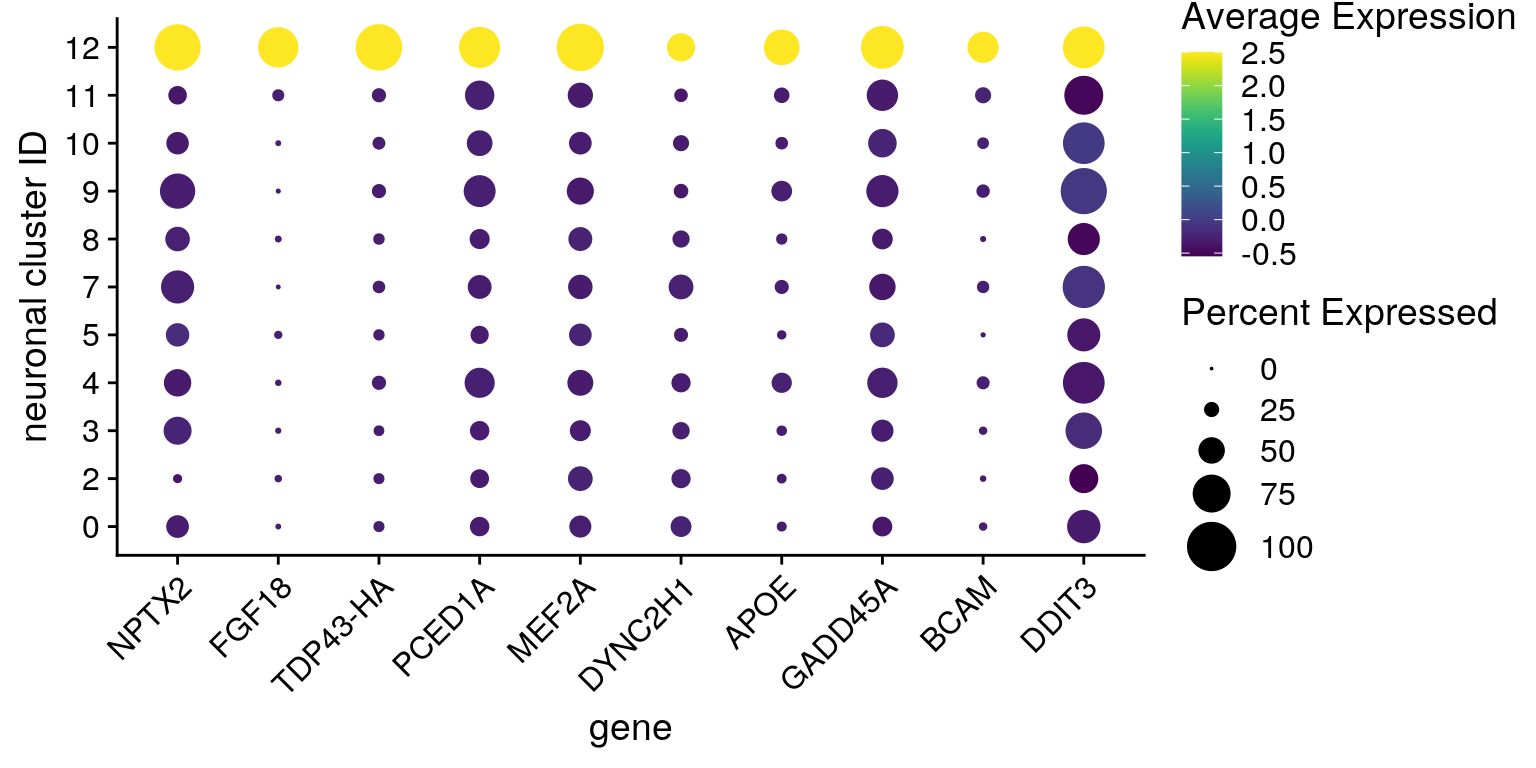
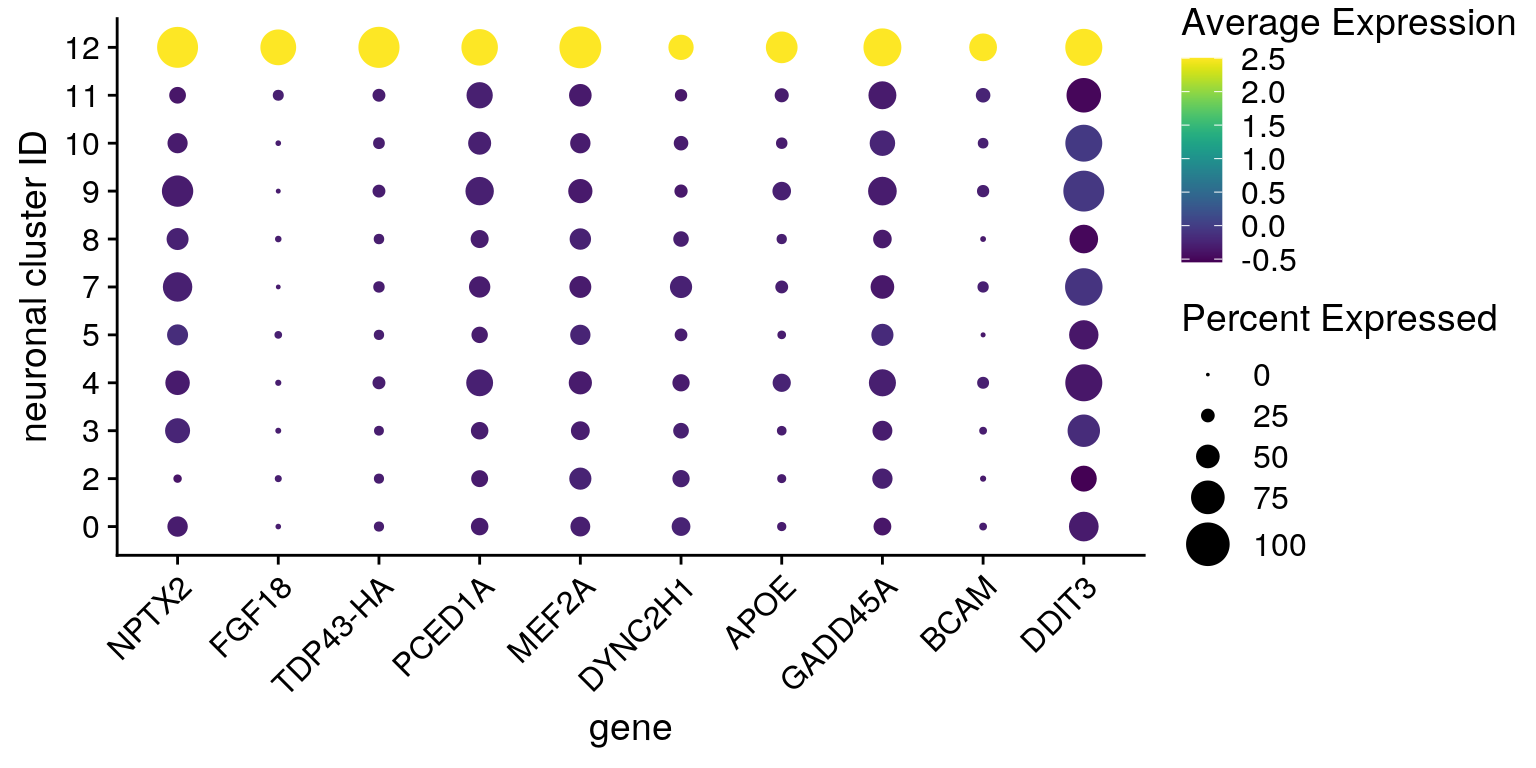
Build site.

diff --git a/docs/TDP-07-cluster_12.html b/docs/TDP-07-cluster_12.html
@@ -413,7 +413,7 @@ div.tocify {
 <div class="tab-content">
 <div id="summary" class="tab-pane fade in active">
 <p>
-<strong>Last updated:</strong> 2021-05-25
+<strong>Last updated:</strong> 2021-05-26
 </p>
 <p>
 <strong>Checks:</strong> <span class="glyphicon glyphicon-ok text-success" aria-hidden="true"></span> 7 <span class="glyphicon glyphicon-exclamation-sign text-danger" aria-hidden="true"></span> 0
@@ -504,16 +504,16 @@ This reproducible <a href="http://rmarkdown.rstudio.com">R Markdown</a> analysis
 <div class="panel panel-default">
 <div class="panel-heading">
 <p class="panel-title">
-<a data-toggle="collapse" data-parent="#workflowr-checks" href="#strongRepositoryversionstrongahrefhttpsgithubcomkhembachneuralscRNAseqtree10927250339f7d4d5d5ceda139178f1e43c518c7targetblank1092725a"> <span class="glyphicon glyphicon-ok text-success" aria-hidden="true"></span> <strong>Repository version:</strong> <a href="https://github.com/khembach/neural_scRNAseq/tree/10927250339f7d4d5d5ceda139178f1e43c518c7" target="_blank">1092725</a> </a>
+<a data-toggle="collapse" data-parent="#workflowr-checks" href="#strongRepositoryversionstrongahrefhttpsgithubcomkhembachneuralscRNAseqtree7ae942391a922ed9412260d4833d7c2fe349f205targetblank7ae9423a"> <span class="glyphicon glyphicon-ok text-success" aria-hidden="true"></span> <strong>Repository version:</strong> <a href="https://github.com/khembach/neural_scRNAseq/tree/7ae942391a922ed9412260d4833d7c2fe349f205" target="_blank">7ae9423</a> </a>
 </p>
 </div>
[2 lines of base64/hex data omitted]
 <div class="panel-body">
 <p>
 Great! You are using Git for version control. Tracking code development and connecting the code version to the results is critical for reproducibility.
 </p>
 <p>
-The results in this page were generated with repository version <a href="https://github.com/khembach/neural_scRNAseq/tree/10927250339f7d4d5d5ceda139178f1e43c518c7" target="_blank">1092725</a>. See the <em>Past versions</em> tab to see a history of the changes made to the R Markdown and HTML files.
+The results in this page were generated with repository version <a href="https://github.com/khembach/neural_scRNAseq/tree/7ae942391a922ed9412260d4833d7c2fe349f205" target="_blank">7ae9423</a>. See the <em>Past versions</em> tab to see a history of the changes made to the R Markdown and HTML files.
 </p>
 <p>
 Note that you need to be careful to ensure that all relevant files for the analysis have been committed to Git prior to generating the results (you can use <code>wflow_publish</code> or <code>wflow_git_commit</code>). workflowr only checks the R Markdown file, but you know if there are other scripts or data files that it depends on. Below is the status of the Git repository when the results were generated:
@@ -879,6 +879,40 @@ Message
 Rmd
 </td>
 <td>
+<a href="https://github.com/khembach/neural_scRNAseq/blob/7ae942391a922ed9412260d4833d7c2fe349f205/analysis/TDP-07-cluster_12.Rmd" target="_blank">7ae9423</a>
+</td>
+<td>
+khembach
+</td>
+<td>
+2021-05-26
+</td>
+<td>
+change size of dots in dot plot
+</td>
+</tr>
+<tr>
+<td>
+html
+</td>
+<td>
+<a href="https://rawcdn.githack.com/khembach/neural_scRNAseq/35b48c48157a97b750d811e6ee1d45bb50714b8c/docs/TDP-07-cluster_12.html" target="_blank">35b48c4</a>
+</td>
+<td>
+khembach
+</td>
+<td>
+2021-05-25
+</td>
+<td>
+Build site.
+</td>
+</tr>
+<tr>
+<td>
+Rmd
+</td>
+<td>
 <a href="https://github.com/khembach/neural_scRNAseq/blob/10927250339f7d4d5d5ceda139178f1e43c518c7/analysis/TDP-07-cluster_12.Rmd" target="_blank">1092725</a>
 </td>
 <td>
@@ -1173,6 +1207,17 @@ Date
 <tbody>
 <tr>
 <td>
+<a href="https://github.com/khembach/neural_scRNAseq/blob/35b48c48157a97b750d811e6ee1d45bb50714b8c/docs/figure/TDP-07-cluster_12.Rmd/scran-markers-heatmap-any-1.png" target="_blank">35b48c4</a>
+</td>
+<td>
+khembach
+</td>
+<td>
+2021-05-25
+</td>
+</tr>
+<tr>
+<td>
 <a href="https://github.com/khembach/neural_scRNAseq/blob/1790d32caf3b95a22107c7d7a34f5feadb743ba9/docs/figure/TDP-07-cluster_12.Rmd/scran-markers-heatmap-any-1.png" target="_blank">1790d32</a>
 </td>
 <td>
@@ -1223,6 +1268,17 @@ Date
 <tbody>
 <tr>
 <td>
+<a href="https://github.com/khembach/neural_scRNAseq/blob/35b48c48157a97b750d811e6ee1d45bb50714b8c/docs/figure/TDP-07-cluster_12.Rmd/scran-markers-heatmap-any-2.png" target="_blank">35b48c4</a>
+</td>
+<td>
+khembach
+</td>
+<td>
+2021-05-25
+</td>
+</tr>
+<tr>
+<td>
 <a href="https://github.com/khembach/neural_scRNAseq/blob/390fedee342dc10cd322203fefb3612cc22c2ed6/docs/figure/TDP-07-cluster_12.Rmd/scran-markers-heatmap-any-2.png" target="_blank">390fede</a>
 </td>
 <td>
@@ -1260,6 +1316,17 @@ Date
 </tr>
 </thead>
 <tbody>
+<tr>
+<td>
+<a href="https://github.com/khembach/neural_scRNAseq/blob/35b48c48157a97b750d811e6ee1d45bb50714b8c/docs/figure/TDP-07-cluster_12.Rmd/scran-markers-heatmap-any-3.png" target="_blank">35b48c4</a>
+</td>
+<td>
+khembach
+</td>
+<td>
+2021-05-25
+</td>
+</tr>
 <tr>
 <td>
 <a href="https://github.com/khembach/neural_scRNAseq/blob/1790d32caf3b95a22107c7d7a34f5feadb743ba9/docs/figure/TDP-07-cluster_12.Rmd/scran-markers-heatmap-any-3.png" target="_blank">1790d32</a>
@@ -1312,6 +1379,17 @@ Date
 <tbody>
 <tr>
 <td>
+<a href="https://github.com/khembach/neural_scRNAseq/blob/35b48c48157a97b750d811e6ee1d45bb50714b8c/docs/figure/TDP-07-cluster_12.Rmd/scran-markers-heatmap-all-1.png" target="_blank">35b48c4</a>
+</td>
+<td>
+khembach
+</td>
+<td>
+2021-05-25
+</td>
+</tr>
+<tr>
+<td>
 <a href="https://github.com/khembach/neural_scRNAseq/blob/1790d32caf3b95a22107c7d7a34f5feadb743ba9/docs/figure/TDP-07-cluster_12.Rmd/scran-markers-heatmap-all-1.png" target="_blank">1790d32</a>
 </td>
 <td>
@@ -1362,6 +1440,17 @@ Date
 <tbody>
 <tr>
 <td>
+<a href="https://github.com/khembach/neural_scRNAseq/blob/35b48c48157a97b750d811e6ee1d45bb50714b8c/docs/figure/TDP-07-cluster_12.Rmd/scran-markers-heatmap-all-2.png" target="_blank">35b48c4</a>
+</td>
+<td>
+khembach
+</td>
+<td>
+2021-05-25
+</td>
+</tr>
+<tr>
+<td>
 <a href="https://github.com/khembach/neural_scRNAseq/blob/390fedee342dc10cd322203fefb3612cc22c2ed6/docs/figure/TDP-07-cluster_12.Rmd/scran-markers-heatmap-all-2.png" target="_blank">390fede</a>
 </td>
 <td>
@@ -1401,6 +1490,17 @@ Date
 <tbody>
 <tr>
 <td>
+<a href="https://github.com/khembach/neural_scRNAseq/blob/35b48c48157a97b750d811e6ee1d45bb50714b8c/docs/figure/TDP-07-cluster_12.Rmd/scran-markers-heatmap-all-3.png" target="_blank">35b48c4</a>
+</td>
+<td>
+khembach
+</td>
+<td>
+2021-05-25
+</td>
+</tr>
+<tr>
+<td>
 <a href="https://github.com/khembach/neural_scRNAseq/blob/1790d32caf3b95a22107c7d7a34f5feadb743ba9/docs/figure/TDP-07-cluster_12.Rmd/scran-markers-heatmap-all-3.png" target="_blank">1790d32</a>
 </td>
 <td>
@@ -1435,18 +1535,92 @@ khembach
 
 features &lt;- all_up[[&quot;12&quot;]][1:10,] %&gt;% rownames
 DotPlot(so, assay = &quot;RNA&quot;, features = features, idents = neuronal_clusters, 
-        scale = TRUE, scale.min = 0, scale.max = 100, dot.scale = 8) + 
+        scale = TRUE, scale.min = 0, scale.max = 100, dot.scale = 7) + 
   RotatedAxis() + scale_color_viridis() + 
   theme(axis.text.x = element_text(angle=45)) + ylab(&quot;neuronal cluster ID&quot;) + 
   scale_x_discrete(name = &quot;gene&quot;, breaks = features, labels=fs[[&quot;up&quot;]])</code></pre>
 <p><img src="figure/TDP-07-cluster_12.Rmd/dot-plot-1.png" width="768" style="display: block; margin: auto;" /></p>
+<p>
+<button type="button" class="btn btn-default btn-xs btn-workflowr btn-workflowr-fig" data-toggle="collapse" data-target="#fig-dot-plot-1">
+Past versions of dot-plot-1.png
+</button>
+</p>
+<div id="fig-dot-plot-1" class="collapse">
+<div class="table-responsive">
+<table class="table table-condensed table-hover">
+<thead>
+<tr>
+<th>
+Version
+</th>
+<th>
+Author
+</th>
+<th>
+Date
+</th>
+</tr>
+</thead>
+<tbody>
+<tr>
+<td>
+<a href="https://github.com/khembach/neural_scRNAseq/blob/35b48c48157a97b750d811e6ee1d45bb50714b8c/docs/figure/TDP-07-cluster_12.Rmd/dot-plot-1.png" target="_blank">35b48c4</a>
+</td>
+<td>
+khembach
+</td>
+<td>
+2021-05-25
+</td>
+</tr>
+</tbody>
+</table>
+</div>
+</div>
 <pre class="r"><code>features &lt;- all_down[[&quot;12&quot;]][1:10,] %&gt;% rownames
 DotPlot(so, assay = &quot;RNA&quot;, features = features, idents = neuronal_clusters, 
-        scale = TRUE, scale.min = 0, scale.max = 100, dot.scale = 8) + 
+        scale = TRUE, scale.min = 0, scale.max = 100, dot.scale = 7) + 
   RotatedAxis() + scale_color_viridis() + 
   theme(axis.text.x = element_text(angle=45)) + ylab(&quot;neuronal cluster ID&quot;) + 
   scale_x_discrete(name = &quot;gene&quot;,  breaks = features, labels=fs[[&quot;down&quot;]])</code></pre>
 <p><img src="figure/TDP-07-cluster_12.Rmd/dot-plot-2.png" width="768" style="display: block; margin: auto;" /></p>
+<p>
+<button type="button" class="btn btn-default btn-xs btn-workflowr btn-workflowr-fig" data-toggle="collapse" data-target="#fig-dot-plot-2">
+Past versions of dot-plot-2.png
+</button>
+</p>
+<div id="fig-dot-plot-2" class="collapse">
+<div class="table-responsive">
+<table class="table table-condensed table-hover">
+<thead>
+<tr>
+<th>
+Version
+</th>
+<th>
+Author
+</th>
+<th>
+Date
+</th>
+</tr>
+</thead>
+<tbody>
+<tr>
+<td>
+<a href="https://github.com/khembach/neural_scRNAseq/blob/35b48c48157a97b750d811e6ee1d45bb50714b8c/docs/figure/TDP-07-cluster_12.Rmd/dot-plot-2.png" target="_blank">35b48c4</a>
+</td>
+<td>
+khembach
+</td>
+<td>
+2021-05-25
+</td>
+</tr>
+</tbody>
+</table>
+</div>
+</div>
 <br>
 <p>
 <button type="button" class="btn btn-default btn-workflowr btn-workflowr-sessioninfo" data-toggle="collapse" data-target="#workflowr-sessioninfo" style="display: block;">
